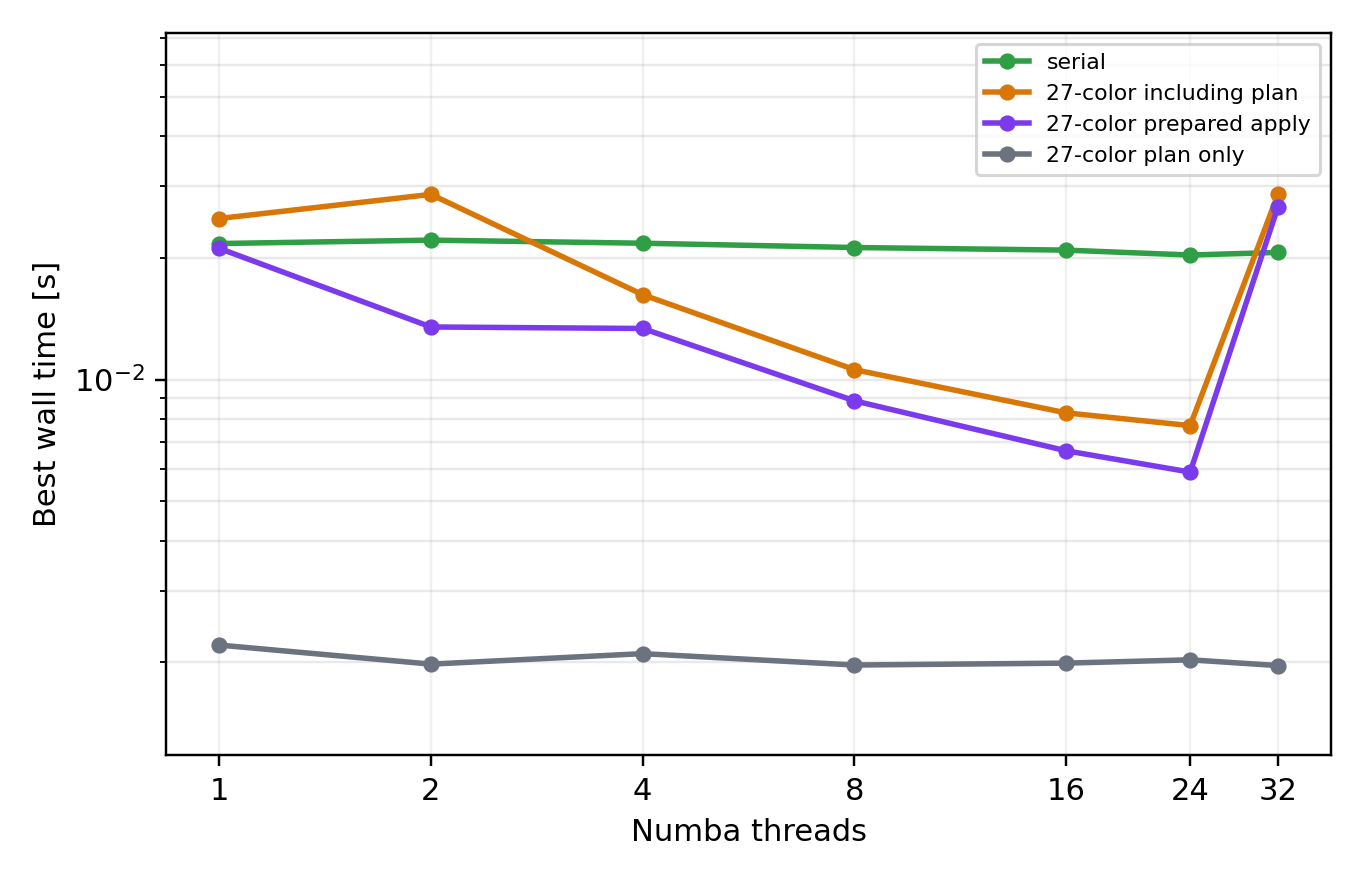
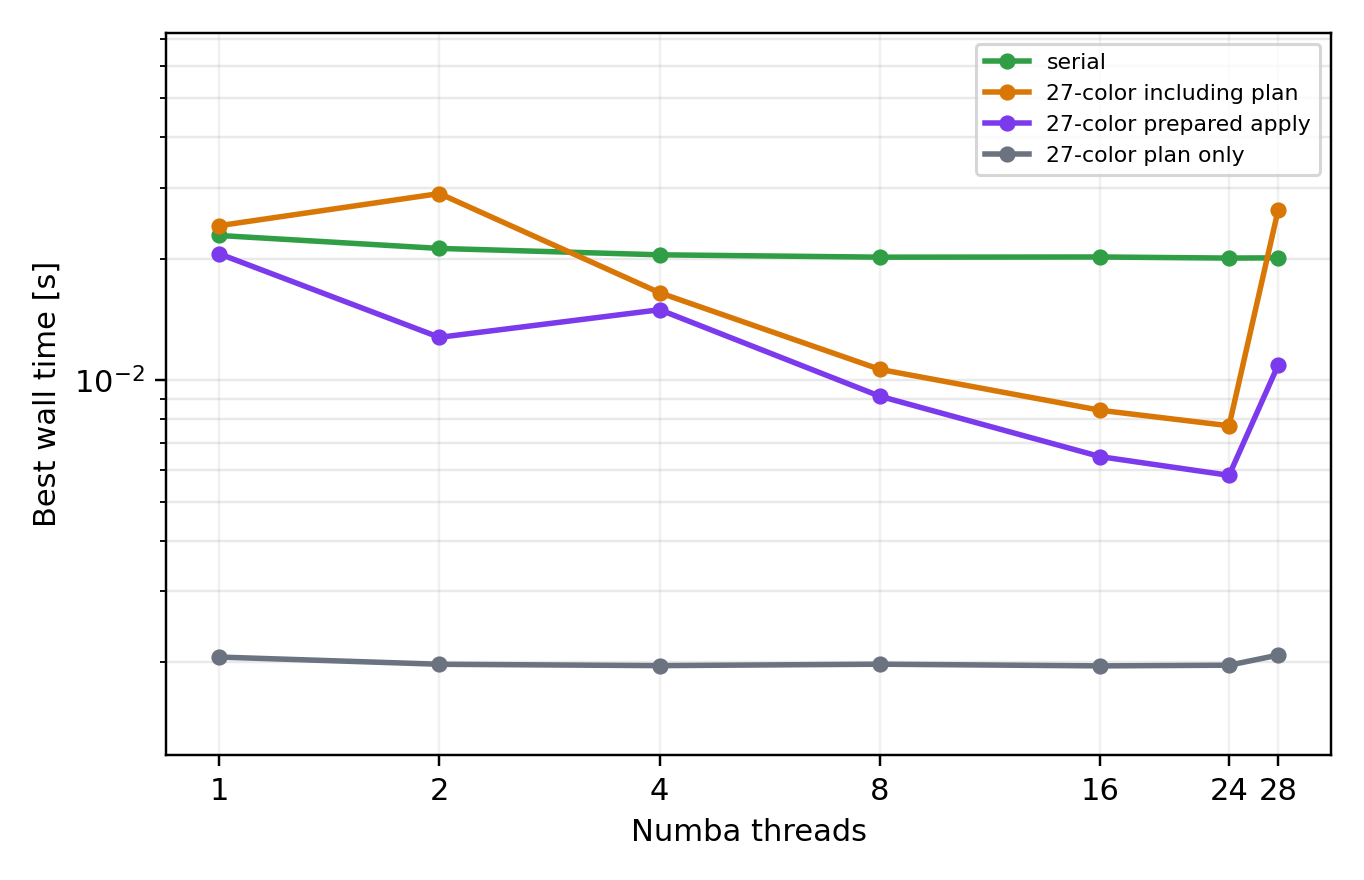
Update Numba cell coloring thread sweep

diff --git a/benchmarks/benchmark_numba_cell_coloring.py b/benchmarks/benchmark_numba_cell_coloring.py
@@ -376,7 +376,7 @@ def main():
         action="store_true",
         help="Benchmark one workload while sweeping Numba thread counts.",
     )
-    parser.add_argument("--thread-counts", nargs="+", type=int, default=[1, 2, 4, 8, 16, 24, 32])
+    parser.add_argument("--thread-counts", nargs="+", type=int, default=[1, 2, 4, 8, 16, 24, 28])
     parser.add_argument(
         "--thread-workload",
         choices=["zeolite", "nanoparticle", "surface"],

diff --git a/docs/source/concepts.rst b/docs/source/concepts.rst
@@ -167,7 +167,7 @@ Run the CPU mask-generation benchmark with:
        --plot mask_generation_scaling.png
    python benchmarks/benchmark_numba_memory_order.py
    python benchmarks/benchmark_numba_cell_coloring.py --thread-scaling \
-       --thread-counts 1 2 4 8 16 24 32 \
+       --thread-counts 1 2 4 8 16 24 28 \
        --resolution 0.45 --repeats 3 \
        --csv benchmarks/numba_cell_coloring_threads.csv \
        --plot docs/source/_static/numba_cell_coloring_threads.png
@@ -183,12 +183,12 @@ workloads.
 The Numba cell-coloring thread sweep used an AMD EPYC 7551P 32-core CPU with
 Python 3.12.12, NumPy 2.4.1, and Numba 0.64.0. For a 2951-atom Pt nanoparticle
 at ``0.45`` Angstrom resolution, the prepared cell-colored update improved from
-``0.02110`` s at one thread to ``0.00591`` s at 24 threads, then regressed to
-``0.02675`` s at 32 threads. Including plan construction, the best time was
-``0.00770`` s at 24 threads. The plan-only cost was about ``0.002`` s and did
-not scale strongly with thread count, so JITing the planner is not currently the
-obvious bottleneck. The result supports keeping this path explicit rather than
-making it the default.
+``0.02057`` s at one thread to ``0.00581`` s at 24 threads. A 28-thread run was
+slower at ``0.01089`` s, which is plausible on a shared front-end node. Including
+plan construction, the best time was ``0.00771`` s at 24 threads. The plan-only
+cost was about ``0.002`` s and did not scale strongly with thread count, so
+JITing the planner is not currently the obvious bottleneck. The result supports
+keeping this path explicit rather than making it the default.
 
 The memory-order benchmark records an implementation detail checked during
 ``0.5.x`` development. On an AMD EPYC 7551P CPU with Python 3.12.12, NumPy

diff --git a/docs/source/examples.rst b/docs/source/examples.rst
@@ -159,7 +159,7 @@ path benefits from CPU parallelism:
 .. code-block:: bash
 
    python benchmarks/benchmark_numba_cell_coloring.py --thread-scaling \
-       --thread-counts 1 2 4 8 16 24 32 \
+       --thread-counts 1 2 4 8 16 24 28 \
        --resolution 0.45 --repeats 3 \
        --csv benchmarks/numba_cell_coloring_threads.csv \
        --plot docs/source/_static/numba_cell_coloring_threads.png
@@ -167,7 +167,7 @@ path benefits from CPU parallelism:
 The documentation thread-scaling figure was generated on an AMD EPYC 7551P
 32-core CPU. It shows that the prepared colored update can benefit from
 parallelism for a larger Pt nanoparticle, but the plan-building overhead and
-32-thread regression mean this remains an explicit opt-in path.
+shared-node thread-count sensitivity mean this remains an explicit opt-in path.
 
 The experimental CuPy cell-coloring benchmark compares the CPU Numba backend,
 the existing CuPy ``add.at`` path, the 27-color CuPy kernel, and simple

diff --git a/README.md b/README.md
@@ -180,7 +180,7 @@ Run the mask-generation benchmark with:
 python benchmarks/benchmark_backends.py --workloads zeolite nanoparticle surface --plot mask_generation_scaling.png
 python benchmarks/benchmark_dtypes.py --backend numpy
 python benchmarks/benchmark_numba_memory_order.py
-python benchmarks/benchmark_numba_cell_coloring.py --thread-scaling --thread-counts 1 2 4 8 16 24 32
+python benchmarks/benchmark_numba_cell_coloring.py --thread-scaling --thread-counts 1 2 4 8 16 24 28
 python benchmarks/benchmark_cupy_cell_coloring.py --sizes 923 2869 --resolution 0.6 --repeats 3
 ```
 
